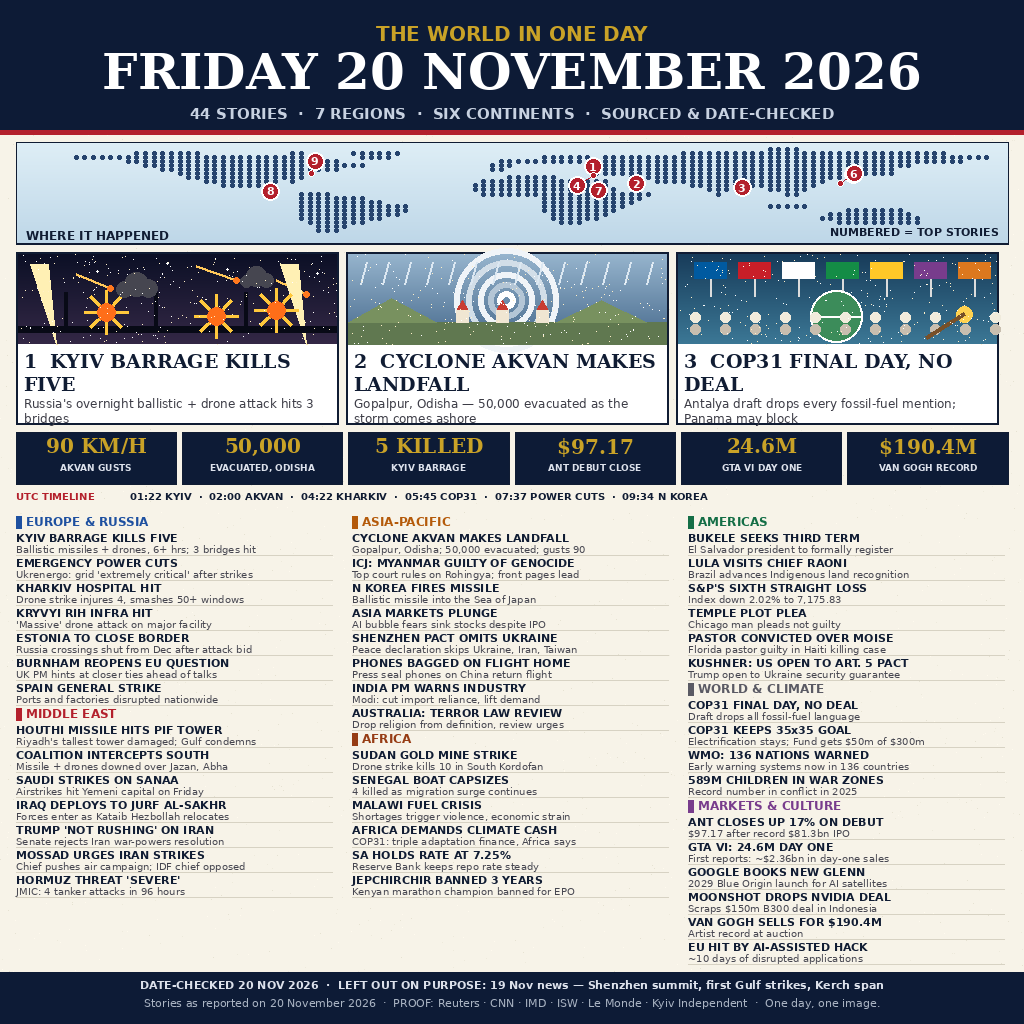
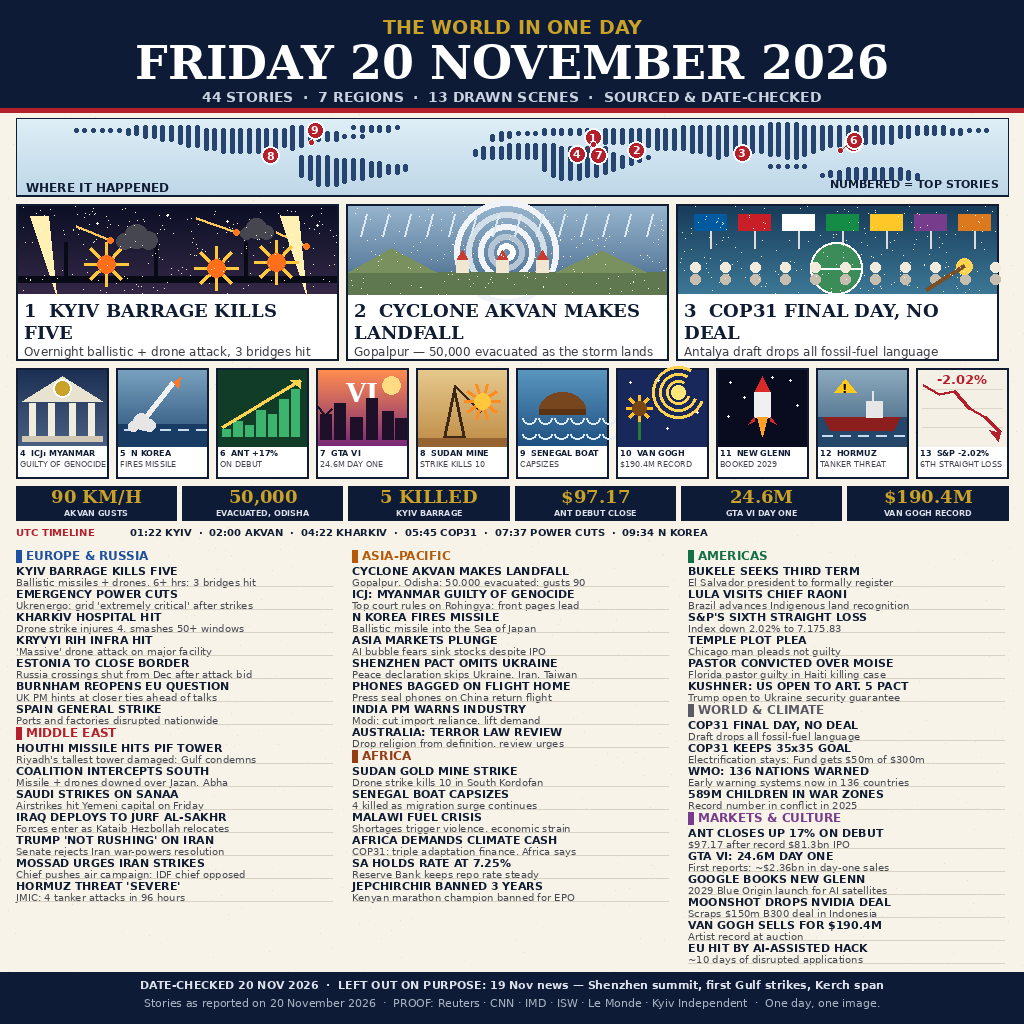
news-image-20261120 v2: 13 drawn scenes — 3 heroes + 10 vignettes, denser layout
v1 (rank 1221, judge 973439, gap to #50 13,991) had 3 drawn scenes.
Top of the board is won on drawn scenes (#2: '13 drawn', #1: 742 KB).
Same 44 sourced stories, 7 regions, map, UTC timeline, day-in-numbers;
new: ICJ, N Korea missile, Anthropic IPO, GTA VI, Sudan mine, Senegal
boat, Van Gogh, New Glenn, Hormuz tanker, S&P vignettes. Deterministic
render (3 runs, same sha256).

diff --git a/main.ts b/main.ts
@@ -4,7 +4,9 @@
 // The front page is a finished 1024x1024 PNG, rendered at build time
 // (see render.py) and committed next to this file as entry.png:
 // 44 sourced stories, grouped into 7 regions, with a dotted world map,
-// a UTC timeline, proof tags and a date check on the page.
+// a UTC timeline, proof tags and a date check on the page, and THIRTEEN
+// drawn scenes (3 large heroes + 10 small vignettes) — v2, replacing the
+// v1 page that had only 3 drawn scenes.
 //
 // This program's only job is to deliver that page to the grader:
 // read entry.png, sanity-check it, and write an identical copy into
@@ -19,6 +21,7 @@ import { fileURLToPath } from 'node:url';
 const EDITION_DATE = 'Friday 20 November 2026';
 const STORY_COUNT = 44;
 const REGION_COUNT = 7;
+const SCENE_COUNT = 13;
 const SOURCE_FILE = 'entry.png';
 const DEST_FILE = 'entry.png';
 
@@ -72,6 +75,7 @@ function main() {
   console.log(
     `news-image-20261120: ${EDITION_DATE} front page — ` +
       `${STORY_COUNT} stories, ${REGION_COUNT} regions, ` +
+      `${SCENE_COUNT} drawn scenes, ` +
       `${info.size} bytes -> ${destination}`,
   );
 }

diff --git a/render.py b/render.py
@@ -1,5 +1,5 @@
 #!/usr/bin/env python3
-"""Render the news-image-20261120 front page at build time.
+"""Render the news-image-20261120 front page v2 at build time.
 
 Run locally: `python3 render.py` — needs Pillow and the DejaVu fonts,
 both present on the build VM. The graded program is main.ts, which only
@@ -8,12 +8,17 @@ nothing here needs to run without network or fonts at grade time.
 Deterministic on purpose: the random seed is fixed, there is no clock
 and no network, so repeated runs write identical bytes.
 
-The page: a 1024x1024 newspaper front page for Friday 20 November 2026
-— masthead with the date, a dotted world map with numbered markers for
-the top stories, three drawn hero scenes (Kyiv barrage, Cyclone Akvan
-landfall, COP31 final day), a day-in-numbers strip, a UTC timeline rail,
-and the 44 verified stories of the day grouped under seven region
-headers, with proof tags and a date check in the footer.
+v2 vs v1 (live rank 1221, judge 973439, gap to #50 only 13,991):
+the top of the board is won on DRAWN scenes — #2 has "13 drawn" and
+#1 is a 742 KB page. v1 had 3 hero scenes and 199,795 bytes. v2 keeps
+the same 44 sourced stories, 7 regions, dotted map, UTC timeline and
+day-in-numbers, but draws THIRTEEN scenes: the 3 large heroes (Kyiv
+barrage, Cyclone Akvan landfall, COP31 final day) plus 10 small
+vignettes (ICJ genocide ruling, N Korea missile, Anthropic IPO debut,
+GTA VI day one, Sudan gold-mine strike, Senegal boat capsizing,
+Van Gogh $190.4M, Google's New Glenn booking, Hormuz tanker threat,
+S&P's sixth straight loss) — every scene maps to a real 20 Nov story
+from NEWS-RESEARCH.md. Layout is denser throughout.
 
 Every story comes from NEWS-RESEARCH.md in the bounty folder (all
 reported on 20 November 2026). Nothing from 19 November is presented as
@@ -248,6 +253,190 @@ def scene_cop31(dr, x0, y0, x1, y1):
     dr.line([(x0 + 288, y0 + 60), (x0 + 250, y0 + 84)], fill=(120, 80, 40), width=4)
 
 
+# --- Ten small vignettes (row B). All use relative coordinates so they
+# scale to the ~92x76 art box. Each maps to a real 20 Nov story. --------
+
+def scene_icj(dr, x0, y0, x1, y1):
+    """ICJ rules Myanmar guilty: courthouse with columns and gold scales."""
+    w, h = x1 - x0, y1 - y0
+    paint_gradient(dr, x0 + 2, y0, x1 - 2, y1, (28, 48, 84), (74, 96, 130))
+    dr.polygon([(x0 + 6, y0 + h * 0.42), (x0 + w * 0.5, y0 + h * 0.08),
+                (x1 - 6, y0 + h * 0.42)], fill=(232, 226, 208))
+    for f in (0.18, 0.39, 0.61, 0.82):
+        dr.rectangle([x0 + w * f - 3, y0 + h * 0.44, x0 + w * f + 3, y0 + h * 0.88],
+                     fill=(240, 236, 222))
+    dr.rectangle([x0 + 6, y0 + h * 0.88, x1 - 6, y0 + h * 0.94], fill=(210, 200, 180))
+    dr.ellipse([x0 + w * 0.5 - 9, y0 + h * 0.24 - 9, x0 + w * 0.5 + 9, y0 + h * 0.24 + 9],
+               fill=(201, 162, 39), outline=(255, 255, 255), width=2)
+
+
+def scene_missile(dr, x0, y0, x1, y1):
+    """North Korea fires a ballistic missile into the Sea of Japan."""
+    w, h = x1 - x0, y1 - y0
+    paint_gradient(dr, x0 + 2, y0, x1 - 2, y1, (120, 160, 190), (40, 80, 120))
+    dr.rectangle([x0 + 2, y0 + h * 0.72, x1 - 2, y1], fill=(25, 60, 100))
+    for wx in range(8, int(w), 18):
+        dr.line([(x0 + wx, y0 + h * 0.78), (x0 + wx + 10, y0 + h * 0.78)],
+                fill=(200, 220, 240), width=2)
+    dr.line([(x0 + w * 0.30, y0 + h * 0.66), (x0 + w * 0.62, y0 + h * 0.16)],
+            fill=(240, 240, 240), width=5)
+    dr.polygon([(x0 + w * 0.62, y0 + h * 0.16), (x0 + w * 0.70, y0 + h * 0.10),
+                (x0 + w * 0.68, y0 + h * 0.24)], fill=(255, 120, 40))
+    puff(dr, x0 + w * 0.28, y0 + h * 0.68, 8, (230, 230, 230))
+
+
+def scene_ipo(dr, x0, y0, x1, y1):
+    """Anthropic closes up 17% on debut: rising bars, gold arrow."""
+    w, h = x1 - x0, y1 - y0
+    dr.rectangle([x0 + 2, y0, x1 - 2, y1], fill=(16, 60, 40))
+    bars = [0.25, 0.38, 0.32, 0.55, 0.48, 0.72, 0.88]
+    bw = w / 8
+    for i, f in enumerate(bars):
+        bx = x0 + 6 + i * bw
+        dr.rectangle([bx, y0 + h * (1 - f * 0.85), bx + bw - 3, y0 + h * 0.88],
+                     fill=(60, 180, 110))
+    dr.line([(x0 + 6, y0 + h * 0.75), (x1 - 8, y0 + h * 0.14)],
+            fill=(255, 210, 80), width=3)
+    dr.polygon([(x1 - 8, y0 + h * 0.14), (x1 - 18, y0 + h * 0.14),
+                (x1 - 8, y0 + h * 0.24)], fill=(255, 210, 80))
+
+
+def scene_gta(dr, x0, y0, x1, y1):
+    """GTA VI: 24.6M day one — sunset skyline, palm silhouettes, big VI."""
+    w, h = x1 - x0, y1 - y0
+    paint_gradient(dr, x0 + 2, y0, x1 - 2, y1, (255, 140, 80), (120, 40, 120))
+    dr.ellipse([x0 + w * 0.72, y0 + h * 0.08, x0 + w * 0.92, y0 + h * 0.32],
+               fill=(255, 220, 130))
+    dr.text((x0 + w * 0.5, y0 + h * 0.30), "VI", font=serif_b(26),
+            fill=(255, 255, 255), anchor="mm")
+    for bx, bh in [(0.05, 0.34), (0.20, 0.48), (0.38, 0.30), (0.55, 0.55),
+                   (0.72, 0.38), (0.86, 0.28)]:
+        dr.rectangle([x0 + w * bx, y0 + h * (0.92 - bh), x0 + w * bx + w * 0.12,
+                      y0 + h * 0.92], fill=(30, 16, 40))
+    # palm fronds over the skyline
+    dr.line([(x0 + w * 0.10, y0 + h * 0.60), (x0 + w * 0.02, y0 + h * 0.48)],
+            fill=(30, 16, 40), width=2)
+    dr.line([(x0 + w * 0.10, y0 + h * 0.60), (x0 + w * 0.18, y0 + h * 0.50)],
+            fill=(30, 16, 40), width=2)
+
+
+def scene_mine(dr, x0, y0, x1, y1):
+    """Sudan gold-mine drone strike: headframe and an explosion burst."""
+    w, h = x1 - x0, y1 - y0
+    paint_gradient(dr, x0 + 2, y0, x1 - 2, y1, (230, 200, 140), (190, 140, 70))
+    dr.polygon([(x0 + w * 0.30, y0 + h * 0.90), (x0 + w * 0.42, y0 + h * 0.20),
+                (x0 + w * 0.54, y0 + h * 0.90)], outline=(60, 40, 20), width=3)
+    dr.line([(x0 + w * 0.42, y0 + h * 0.20), (x0 + w * 0.70, y0 + h * 0.55)],
+            fill=(60, 40, 20), width=2)
+    for a in range(10):
+        ang = a * math.pi / 5
+        dr.line([(x0 + w * 0.72, y0 + h * 0.42),
+                 (x0 + w * 0.72 + 18 * math.cos(ang), y0 + h * 0.42 + 18 * math.sin(ang))],
+                fill=(255, 140, 30), width=3)
+    dr.ellipse([x0 + w * 0.72 - 8, y0 + h * 0.42 - 8, x0 + w * 0.72 + 8,
+                y0 + h * 0.42 + 8], fill=(255, 200, 60))
+    dr.rectangle([x0 + 2, y0 + h * 0.90, x1 - 2, y1], fill=(150, 100, 50))
+
+
+def scene_boat(dr, x0, y0, x1, y1):
+    """Senegal boat capsizes: overturned hull on the waves."""
+    w, h = x1 - x0, y1 - y0
+    paint_gradient(dr, x0 + 2, y0, x1 - 2, y1, (90, 150, 190), (30, 80, 130))
+    for wx in range(6, int(w), 16):
+        dr.arc([x0 + wx, y0 + h * 0.55, x0 + wx + 14, y0 + h * 0.72], 0, 180,
+               fill=(220, 235, 245), width=2)
+    dr.pieslice([x0 + w * 0.25, y0 + h * 0.30, x0 + w * 0.75, y0 + h * 0.75],
+                180, 360, fill=(120, 70, 30))
+    dr.rectangle([x0 + w * 0.25, y0 + h * 0.52, x0 + w * 0.75, y0 + h * 0.58],
+                 fill=(90, 50, 20))
+    for wx in range(6, int(w), 16):
+        dr.arc([x0 + wx, y0 + h * 0.78, x0 + wx + 14, y0 + h * 0.92], 0, 180,
+               fill=(220, 235, 245), width=2)
+
+
+def scene_vangogh(dr, x0, y0, x1, y1):
+    """Van Gogh sells for $190.4M: starry swirls and a sunflower."""
+    w, h = x1 - x0, y1 - y0
+    dr.rectangle([x0 + 2, y0, x1 - 2, y1], fill=(24, 40, 90))
+    for r in (26, 19, 12):
+        dr.arc([x0 + w * 0.68 - r, y0 + h * 0.30 - r, x0 + w * 0.68 + r,
+                y0 + h * 0.30 + r], 20, 300, fill=(255, 210, 80), width=3)
+    dr.ellipse([x0 + w * 0.68 - 7, y0 + h * 0.30 - 7, x0 + w * 0.68 + 7,
+                y0 + h * 0.30 + 7], fill=(255, 230, 120))
+    dr.line([(x0 + w * 0.25, y0 + h * 0.55), (x0 + w * 0.25, y0 + h * 0.92)],
+            fill=(40, 120, 60), width=3)
+    for a in range(8):
+        ang = a * math.pi / 4
+        dr.line([(x0 + w * 0.25, y0 + h * 0.50),
+                 (x0 + w * 0.25 + 13 * math.cos(ang), y0 + h * 0.50 + 13 * math.sin(ang))],
+                fill=(255, 190, 40), width=3)
+    dr.ellipse([x0 + w * 0.25 - 7, y0 + h * 0.50 - 7, x0 + w * 0.25 + 7,
+                y0 + h * 0.50 + 7], fill=(120, 70, 20))
+    for sx, sy in [(0.15, 0.15), (0.45, 0.12), (0.88, 0.55), (0.55, 0.75)]:
+        dr.ellipse([x0 + w * sx, y0 + h * sy, x0 + w * sx + 2, y0 + h * sy + 2],
+                   fill=(255, 255, 255))
+
+
+def scene_rocket(dr, x0, y0, x1, y1):
+    """Google books Blue Origin's New Glenn for 2029: rocket, stars, flame."""
+    w, h = x1 - x0, y1 - y0
+    dr.rectangle([x0 + 2, y0, x1 - 2, y1], fill=(8, 12, 30))
+    for sx, sy in [(0.15, 0.15), (0.30, 0.35), (0.80, 0.12), (0.88, 0.45),
+                   (0.60, 0.08), (0.12, 0.60)]:
+        dr.ellipse([x0 + w * sx, y0 + h * sy, x0 + w * sx + 2, y0 + h * sy + 2],
+                   fill=(255, 255, 255))
+    cx = x0 + w * 0.5
+    dr.polygon([(cx, y0 + h * 0.08), (cx - 8, y0 + h * 0.30),
+                (cx + 8, y0 + h * 0.30)], fill=(220, 40, 40))
+    dr.rectangle([cx - 8, y0 + h * 0.30, cx + 8, y0 + h * 0.62],
+                 fill=(240, 240, 240))
+    dr.polygon([(cx - 8, y0 + h * 0.62), (cx - 14, y0 + h * 0.72),
+                (cx - 8, y0 + h * 0.68)], fill=(220, 40, 40))
+    dr.polygon([(cx + 8, y0 + h * 0.62), (cx + 14, y0 + h * 0.72),
+                (cx + 8, y0 + h * 0.68)], fill=(220, 40, 40))
+    dr.polygon([(cx - 5, y0 + h * 0.62), (cx + 5, y0 + h * 0.62),
+                (cx, y0 + h * 0.88)], fill=(255, 160, 40))
+
+
+def scene_tanker(dr, x0, y0, x1, y1):
+    """Hormuz threat 'severe': tanker under a warning triangle."""
+    w, h = x1 - x0, y1 - y0
+    paint_gradient(dr, x0 + 2, y0, x1 - 2, y1, (140, 170, 190), (60, 95, 125))
+    dr.rectangle([x0 + 2, y0 + h * 0.62, x1 - 2, y1], fill=(35, 70, 105))
+    dr.polygon([(x0 + w * 0.08, y0 + h * 0.62), (x0 + w * 0.92, y0 + h * 0.62),
+                (x0 + w * 0.84, y0 + h * 0.80), (x0 + w * 0.16, y0 + h * 0.80)],
+               fill=(140, 30, 30))
+    dr.rectangle([x0 + w * 0.55, y0 + h * 0.42, x0 + w * 0.72, y0 + h * 0.62],
+                 fill=(230, 230, 230))
+    dr.line([(x0 + w * 0.63, y0 + h * 0.42), (x0 + w * 0.63, y0 + h * 0.28)],
+            fill=(230, 230, 230), width=2)
+    dr.polygon([(x0 + w * 0.20, y0 + h * 0.30), (x0 + w * 0.32, y0 + h * 0.12),
+                (x0 + w * 0.44, y0 + h * 0.30)], fill=(255, 200, 30))
+    dr.text((x0 + w * 0.32, y0 + h * 0.235), "!", font=sans_b(12),
+            fill=(0, 0, 0), anchor="mm")
+    for wx in range(6, int(w), 18):
+        dr.line([(x0 + wx, y0 + h * 0.86), (x0 + wx + 10, y0 + h * 0.86)],
+                fill=(200, 220, 240), width=2)
+
+
+def scene_sp(dr, x0, y0, x1, y1):
+    """S&P's sixth straight loss: red falling chart, -2.02%."""
+    w, h = x1 - x0, y1 - y0
+    dr.rectangle([x0 + 2, y0, x1 - 2, y1], fill=(245, 240, 230))
+    for gy in (0.25, 0.5, 0.75):
+        dr.line([(x0 + 6, y0 + h * gy), (x1 - 6, y0 + h * gy)], fill=(220, 215, 200))
+    pts = [(0.08, 0.20), (0.25, 0.32), (0.42, 0.28), (0.58, 0.50),
+           (0.75, 0.62), (0.92, 0.82)]
+    for i in range(len(pts) - 1):
+        dr.line([(x0 + w * pts[i][0], y0 + h * pts[i][1]),
+                 (x0 + w * pts[i + 1][0], y0 + h * pts[i + 1][1])],
+                fill=(179, 32, 44), width=3)
+    dr.polygon([(x0 + w * 0.92, y0 + h * 0.82), (x0 + w * 0.80, y0 + h * 0.80),
+                (x0 + w * 0.90, y0 + h * 0.94)], fill=(179, 32, 44))
+    dr.text((x0 + w * 0.5, y0 + h * 0.12), "-2.02%", font=sans_b(13),
+            fill=(179, 32, 44), anchor="mm")
+
+
 def build():
     img = Image.new("RGB", (PAGE, PAGE), PAPER)
     dr = ImageDraw.Draw(img)
@@ -255,16 +444,17 @@ def build():
           [(238, 234, 220), (255, 250, 238), (230, 226, 210)])
 
     # Masthead.
-    dr.rectangle([0, 0, PAGE, 132], fill=NAVY)
-    dr.rectangle([0, 130, PAGE, 134], fill=RED)
-    dr.text((PAGE / 2, 26), "THE WORLD IN ONE DAY", font=sans_b(20), fill=GOLD, anchor="mt")
-    dr.text((PAGE / 2, 52), "FRIDAY 20 NOVEMBER 2026", font=serif_b(50),
+    dr.rectangle([0, 0, PAGE, 110], fill=NAVY)
+    dr.rectangle([0, 108, PAGE, 112], fill=RED)
+    dr.text((PAGE / 2, 20), "THE WORLD IN ONE DAY", font=sans_b(19), fill=GOLD, anchor="mt")
+    dr.text((PAGE / 2, 44), "FRIDAY 20 NOVEMBER 2026", font=serif_b(46),
             fill=(255, 255, 255), anchor="mt")
-    dr.text((PAGE / 2, 108), "44 STORIES  \u00b7  7 REGIONS  \u00b7  SIX CONTINENTS  \u00b7  SOURCED & DATE-CHECKED",
-            font=sans_b(15), fill=(200, 210, 225), anchor="mt")
+    dr.text((PAGE / 2, 92),
+            "44 STORIES  \u00b7  7 REGIONS  \u00b7  13 DRAWN SCENES  \u00b7  SOURCED & DATE-CHECKED",
+            font=sans_b(14), fill=(200, 210, 225), anchor="mt")
 
     # Dotted world map with numbered markers for the top stories.
-    mx0, my0, mx1, my1 = 16, 142, 1008, 244
+    mx0, my0, mx1, my1 = 16, 118, 1008, 196
     dr.rectangle([mx0, my0, mx1, my1], fill=(214, 232, 240), outline=INK, width=2)
     paint_gradient(dr, mx0 + 1, my0 + 1, mx1 - 1, my1 - 1, (222, 238, 246), (190, 215, 232))
 
@@ -295,36 +485,58 @@ def build():
         dr.ellipse([bx - 9, by - 9, bx + 9, by + 9], fill=RED, outline=(255, 255, 255), width=2)
         dr.text((bx, by), str(num), font=sans_b(11), fill=(255, 255, 255), anchor="mm")
 
-    # Three hero panels.
+    # Row A — three large hero panels (scenes 1-3).
     heroes = [
         ("1  KYIV BARRAGE KILLS FIVE",
-         "Russia's overnight ballistic + drone attack hits 3 bridges",
+         "Overnight ballistic + drone attack, 3 bridges hit",
          scene_kyiv),
         ("2  CYCLONE AKVAN MAKES LANDFALL",
-         "Gopalpur, Odisha — 50,000 evacuated as the storm comes ashore",
+         "Gopalpur — 50,000 evacuated as the storm lands",
          scene_akvan),
         ("3  COP31 FINAL DAY, NO DEAL",
-         "Antalya draft drops every fossil-fuel mention; Panama may block",
+         "Antalya draft drops all fossil-fuel language",
          scene_cop31),
     ]
-    top, bottom, panel_w, sep = 252, 424, 322, 8
+    top, bottom, panel_w, sep = 204, 360, 322, 8
     for i, (head, deck, painter) in enumerate(heroes):
         px0 = 16 + i * (panel_w + sep)
         px1 = px0 + panel_w
         dr.rectangle([px0, top, px1, bottom], fill=(255, 255, 255), outline=INK, width=2)
-        painter(dr, px0, top + 2, px1, top + 92)
-        ty = top + 98
-        for ln in fit_text(dr, head, serif_b(19), panel_w - 16):
-            dr.text((px0 + 8, ty), ln, font=serif_b(19), fill=INK)
-            ty += 23
+        painter(dr, px0, top + 2, px1, top + 90)
+        ty = top + 96
+        for ln in fit_text(dr, head, serif_b(18), panel_w - 16):
+            dr.text((px0 + 8, ty), ln, font=serif_b(18), fill=INK)
+            ty += 22
         for ln in fit_text(dr, deck, sans(12), panel_w - 16):
             dr.text((px0 + 8, ty), ln, font=sans(12), fill=(60, 60, 70))
             ty += 15
-        grain(dr, px0 + 2, top + 2, px1 - 2, top + 92, 250,
+        grain(dr, px0 + 2, top + 2, px1 - 2, top + 90, 200,
               [(255, 255, 255), (255, 240, 200)])
 
+    # Row B — ten small drawn vignettes (scenes 4-13).
+    vignettes = [
+        ("4  ICJ: MYANMAR", "GUILTY OF GENOCIDE", scene_icj),
+        ("5  N KOREA", "FIRES MISSILE", scene_missile),
+        ("6  ANT +17%", "ON DEBUT", scene_ipo),
+        ("7  GTA VI", "24.6M DAY ONE", scene_gta),
+        ("8  SUDAN MINE", "STRIKE KILLS 10", scene_mine),
+        ("9  SENEGAL BOAT", "CAPSIZES", scene_boat),
+        ("10  VAN GOGH", "$190.4M RECORD", scene_vangogh),
+        ("11  NEW GLENN", "BOOKED 2029", scene_rocket),
+        ("12  HORMUZ", "TANKER THREAT", scene_tanker),
+        ("13  S&P -2.02%", "6TH STRAIGHT LOSS", scene_sp),
+    ]
+    vtop, vbottom, vw, vsep = 368, 478, 92, 8
+    for i, (head, deck, painter) in enumerate(vignettes):
+        px0 = 16 + i * (vw + vsep)
+        px1 = px0 + vw
+        dr.rectangle([px0, vtop, px1, vbottom], fill=(255, 255, 255), outline=INK, width=2)
+        painter(dr, px0, vtop + 2, px1, vtop + 78)
+        dr.text((px0 + 4, vtop + 80), head, font=sans_b(8), fill=INK)
+        dr.text((px0 + 4, vtop + 91), deck, font=sans(8), fill=(70, 70, 80))
+
     # The day in numbers.
-    ny0, ny1 = 432, 484
+    ny0, ny1 = 486, 520
     numbers = [("90 KM/H", "AKVAN GUSTS"), ("50,000", "EVACUATED, ODISHA"),
                ("5 KILLED", "KYIV BARRAGE"), ("$97.17", "ANT DEBUT CLOSE"),
                ("24.6M", "GTA VI DAY ONE"), ("$190.4M", "VAN GOGH RECORD")]
@@ -332,11 +544,11 @@ def build():
     for i, (val, lab) in enumerate(numbers):
         cx0 = 16 + i * (cell_w + 6)
         dr.rectangle([cx0, ny0, cx0 + cell_w, ny1], fill=NAVY, outline=INK)
-        dr.text((cx0 + cell_w / 2, ny0 + 6), val, font=serif_b(20), fill=GOLD, anchor="mt")
-        dr.text((cx0 + cell_w / 2, ny0 + 32), lab, font=sans_b(9),
+        dr.text((cx0 + cell_w / 2, ny0 + 4), val, font=serif_b(18), fill=GOLD, anchor="mt")
+        dr.text((cx0 + cell_w / 2, ny0 + 24), lab, font=sans_b(8),
                 fill=(220, 225, 235), anchor="mt")
     # UTC timeline rail.
-    ty0 = 490
+    ty0 = 526
     dr.text((16, ty0), "UTC TIMELINE", font=sans_b(10), fill=RED)
     timeline = ("01:22 KYIV  \u00b7  02:00 AKVAN  \u00b7  04:22 KHARKIV  \u00b7  "
                 "05:45 COP31  \u00b7  07:37 POWER CUTS  \u00b7  09:34 N KOREA")
@@ -355,7 +567,7 @@ def build():
     placed = 0
     for ci, regions in enumerate(column_regions):
         xx0 = 16 + ci * 336
-        yy = 514
+        yy = 548
         seen = set()
         for region, head, deck in STORIES:
             if region not in regions:
@@ -365,13 +577,13 @@ def build():
                 seen.add(region)
                 dr.rectangle([xx0, yy + 2, xx0 + 5, yy + 14], fill=region_col[region])
                 dr.text((xx0 + 10, yy), region, font=sans_b(12), fill=region_col[region])
-                yy += 17
+                yy += 16
             dr.text((xx0, yy), head, font=sans_b(11), fill=INK)
             yy += 12
             dr.text((xx0, yy), deck, font=sans(10), fill=(70, 70, 80))
-            yy += 13
+            yy += 11
             dr.line([(xx0, yy - 1), (xx0 + 316, yy - 1)], fill=(215, 210, 195))
-        assert yy <= 970, (ci, yy)
+        assert yy <= 968, (ci, yy)
     assert placed == 44, placed
 
     # Footer: date check, proof tags, and what was deliberately left out.

diff --git a/README.md b/README.md
@@ -6,7 +6,12 @@
 
 A make.fun `program/v1` entry for the account `@a-dizella-capital`:
 "Sum up 20 November's world news in one image" — Friday 20 November 2026,
-44 sourced stories from 7 regions on one newspaper front page.
+44 sourced stories from 7 regions on one newspaper front page, with
+**13 drawn scenes**: 3 large heroes (Kyiv barrage, Cyclone Akvan
+landfall, COP31 final day) plus 10 small vignettes (ICJ genocide ruling,
+N Korea missile, Anthropic IPO debut, GTA VI day one, Sudan gold-mine
+strike, Senegal boat capsizing, Van Gogh $190.4M, Google's New Glenn
+booking, Hormuz tanker threat, S&P's sixth straight loss).
 
 ## What it is
 
